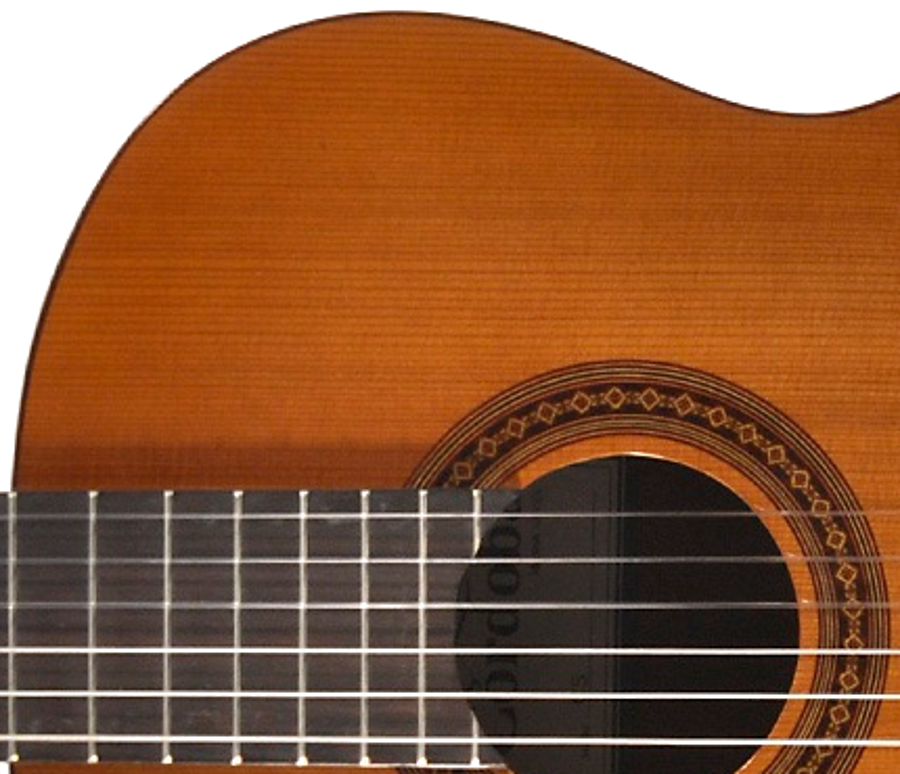
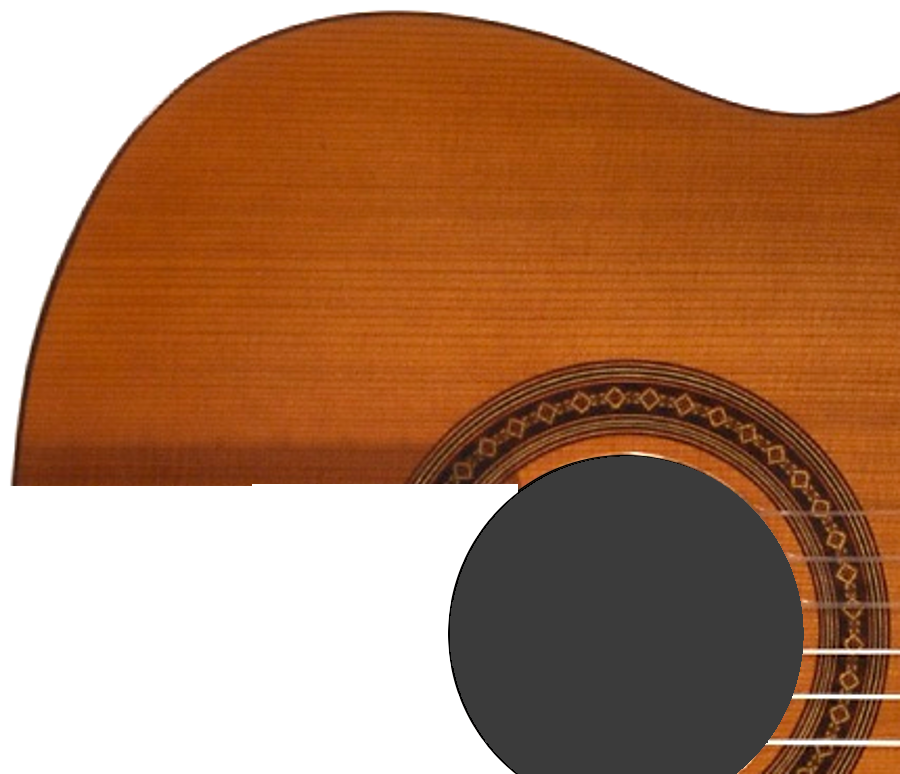
main bg

Changed region(s): [[0.0, 0.5891, 0.9022, 1.0]]

diff --git a/src/tfingerboard.cpp b/src/tfingerboard.cpp
@@ -292,15 +292,16 @@ void TfingerBoard::clearHighLight() {
 
 void TfingerBoard::paint() {
 //     m_fbRect = QRect(10, height()/8, (6*width())/7, height()-height()/4);
-    m_fbRect = QRect(10, 5, (6*width())/7, height() - 4);
-    m_fretWidth = ((m_fbRect.width() + ((gl->GfretsNumber / 2)*(gl->GfretsNumber / 2 +1))
-                  + gl->GfretsNumber / 4) / (gl->GfretsNumber+1)) +1;
-    m_strGap = (height()-2*m_fbRect.y()) / 6;
+    m_fbRect = QRect(10, height() / 18, (6 * width()) / 7, height() - height() / 18);
+    m_fretWidth = ((m_fbRect.width() + ((gl->GfretsNumber / 2)*(gl->GfretsNumber / 2 + 1))
+                  + gl->GfretsNumber / 4) / (gl->GfretsNumber+1)) + 1;
+//     m_strGap = (height() - 2 * m_fbRect.y()) / 6;
+    m_strGap = m_fbRect.height() / 6;
     m_fretsPos[0] = m_fbRect.x() + m_fretWidth;
-    for (int i=2; i<gl->GfretsNumber+1; i++)
-        m_fretsPos[i-1] = m_fretsPos[i-2]+(m_fretWidth-(i/2));
-    lastFret = m_fretsPos[gl->GfretsNumber-1];
-    if (lastFret > (m_fbRect.width()+10))
+    for (int i = 2; i < gl->GfretsNumber + 1; i++)
+        m_fretsPos[i - 1] = m_fretsPos[i - 2] + (m_fretWidth-(i / 2));
+    lastFret = m_fretsPos[gl->GfretsNumber - 1];
+    if (lastFret > (m_fbRect.width() + 10))
         m_fbRect.setWidth(lastFret - 8);
   // Let's paint
     QPixmap pixmap(size());
@@ -309,7 +310,7 @@ void TfingerBoard::paint() {
     QPainter painter(&pixmap);
     painter.setRenderHint(QPainter::Antialiasing, true);
     painter.setRenderHint(QPainter::TextAntialiasing, true);
-    painter.setWindow(0,0,width(),height());
+    painter.setWindow(0 , 0, width(), height());
     resetTransform();
     if (!gl->GisRightHanded) {
         translate(width(), 0);
@@ -362,35 +363,35 @@ void TfingerBoard::paint() {
     strFont.setPixelSize((int)qRound(0.75*m_strGap));//setting font for digits
     painter.setFont(strFont);
     QColor strColor;
-    int strWidth; //width of the string depends on its number
+//     int strWidth; //width of the string depends on its number
     painter.setBrush(QBrush(Qt::NoBrush));
     for (int i=0; i<6; i++) {
         if (i < 2) {
             strColor = Qt::white;
             strColor.setAlpha(175);
-            strWidth = 1;
+//             strWidth = 1;
         } else
             if (i==2) {
                 strColor = Qt::white;
                 strColor.setAlpha(125);
-                strWidth = 2;
+//                 strWidth = 2;
             } else
                 if ( (i==3) || (i==4) ) {
                     strColor = QColor("#C29432"); //#C29432 gold color for bass strings
                     strColor.setAlpha(255);
-                    strWidth = 2;
+//                     strWidth = 2;
                 } else {
                     strColor = QColor("#C29432");
-                    strWidth = 3;
+//                     strWidth = 3;
                 }
 //     drawing main strings
-        painter.setPen(QPen(strColor,strWidth,Qt::SolidLine));
+        painter.setPen(QPen(strColor, m_strWidth[i], Qt::SolidLine));
         painter.drawLine(1, m_fbRect.y()+m_strGap/2+i*m_strGap,
                          width()-1-m_strGap, m_fbRect.y()+m_strGap/2+i*m_strGap);
-        m_workStrings[i]->setPen(QPen(gl->GfingerColor, strWidth+2, Qt::SolidLine));
+        m_workStrings[i]->setPen(QPen(gl->GfingerColor, m_strWidth[i] + 2, Qt::SolidLine));
         m_workStrings[i]->setLine(1, m_fbRect.y()+m_strGap/2+i*m_strGap, width()-1-m_strGap,
                                   m_fbRect.y()+m_strGap/2+i*m_strGap);
-        m_strings[i]->setPen(QPen(gl->GselectedColor, strWidth, Qt::SolidLine));
+        m_strings[i]->setPen(QPen(gl->GselectedColor, m_strWidth[i], Qt::SolidLine));
         m_strings[i]->setLine(m_workStrings[i]->line());
   // drawing digits of strings in circles
         painter.setPen(QPen(strColor, 1, Qt::SolidLine));
@@ -413,14 +414,14 @@ void TfingerBoard::paint() {
               painter.scale (-1, 1);
           }
   // shadow of the strings
-          painter.setPen(QPen(Qt::black,strWidth,Qt::SolidLine));
-          painter.drawLine(m_fbRect.x()+1, m_fbRect.y()+m_strGap/2+i*m_strGap+3+strWidth,
-                           m_fbRect.x()+m_fbRect.width()-1, m_fbRect.y()+m_strGap/2+i*m_strGap+3+strWidth);
-          painter.setPen(QPen(Qt::black,1,Qt::SolidLine)); //on the fingerboard
-          painter.drawLine(m_fbRect.x()-8, m_fbRect.y()+m_strGap/2+i*m_strGap-2,
-                           m_fbRect.x(), m_fbRect.y()+m_strGap/2+i*m_strGap-2);
-          painter.drawLine(m_fbRect.x()-8, m_fbRect.y()+m_strGap/2+i*m_strGap+strWidth-1,
-                           m_fbRect.x()-1, m_fbRect.y()+m_strGap/2+i*m_strGap+strWidth-1);
+          painter.setPen(QPen(Qt::black, m_strWidth[i], Qt::SolidLine));
+          painter.drawLine(m_fbRect.x() + 1, m_fbRect.y() + m_strGap / 2 + i * m_strGap+3 + m_strWidth[i],
+                           m_fbRect.x() + m_fbRect.width() - 1, m_fbRect.y() + m_strGap / 2 + i * m_strGap + 3 + m_strWidth[i]);
+          painter.setPen(QPen(Qt::black, 1, Qt::SolidLine)); //on the fingerboard
+          painter.drawLine(m_fbRect.x() - 8, m_fbRect.y() + m_strGap / 2 + i * m_strGap - 2,
+                           m_fbRect.x(), m_fbRect.y() + m_strGap / 2 + i * m_strGap - 2);
+          painter.drawLine(m_fbRect.x() - 8, m_fbRect.y() + m_strGap / 2 + i * m_strGap + m_strWidth[i] - 1,
+                           m_fbRect.x() - 1, m_fbRect.y() + m_strGap / 2 + i * m_strGap + m_strWidth[i] - 1);
 
     }
 //    m_workFinger->setRect(0,0, fretWidth/1.7, qRound(0.6*strGap));
@@ -453,7 +454,14 @@ Tnote TfingerBoard::posToNote(int str, int fret) {
 //################################################################################################
 
 void TfingerBoard::resizeEvent(QResizeEvent *){
-    m_scene->setSceneRect(0,0,width(),height());
+    m_scene->setSceneRect(0, 0, width(), height());
+    qreal wFactor = height() / 150.0;
+    m_strWidth[0] = 1 * wFactor;
+    m_strWidth[1] = 2 * wFactor;
+    m_strWidth[2] = 2 * wFactor;
+    m_strWidth[3] = 2 * wFactor;
+    m_strWidth[4] = 2 * wFactor;
+    m_strWidth[5] = 3 * wFactor;
     paint();
 }
 

diff --git a/src/mainwindow.cpp b/src/mainwindow.cpp
@@ -191,8 +191,6 @@ MainWindow::MainWindow(QWidget *parent)
     if (gl->A->OUTenabled && !sound->isPlayable())
         QMessageBox::warning(this, "", tr("Problems with sound output"));
     
-    m_guitarBg.load(gl->path + "picts/guitar.png");
-    
 //     QTimer::singleShot(100, this, SLOT(analyseSlot()));
     
 }
@@ -520,12 +518,24 @@ void MainWindow::resizeEvent(QResizeEvent * event) {
     noteName->resize(m_statFontSize);
 //     examResults->setFixedHeight(qRound(centralWidget()->height() * 0.12));
 //     noteName->setFixedSize (QSize(centralWidget()->width()- score->width() -2, qRound(centralWidget()->height() * 0.4)));
-    noteName->setGeometry(posX, qRound(centralWidget()->height() * 0.3),
+    noteName->setGeometry(posX, qRound(centralWidget()->height() * 0.35),
                           centralWidget()->width() - score->width() -2, qRound(centralWidget()->height() * 0.4));
     noteName->resize(m_statFontSize);
     pitchView->resize(m_statFontSize);
     nootLab->setGeometry(posX, qRound(centralWidget()->height() * 0.12), centralWidget()->width()- score->width() -2,
           qRound(centralWidget()->height() * 0.25));
+    
+    guitar->show();
+    QPixmap bgPix(gl->path + "picts/guitar.png");
+    int guitH = qRound(((double)guitar->height() / 300.0) * 774.0);
+//     int posX12fr = qMax(guitar->posX12fret(), qRound(centralWidget()->width() / 2.2));
+//     int guitW = centralWidget()->width() - (posX12fr);
+    int guitW = centralWidget()->width() / 2;
+//     m_bgPixmap = bgPix.scaledToHeight(guitH);
+    m_bgPixmap = bgPix.scaled(guitW, guitH, Qt::IgnoreAspectRatio);
+    qDebug() << m_bgPixmap.size() << centralWidget()->width() << guitar->geometry().x() << guitar->posX12fret();
+    repaint();
+    
 //     examResults->show();
     
 //     setUpdatesEnabled(true);
@@ -546,12 +556,9 @@ void MainWindow::closeEvent(QCloseEvent *event) {
 
 void MainWindow::paintEvent(QPaintEvent* ) {
     QPainter painter(this);
-    int guitH = qRound(((double)guitar->height() / 234.0) * (double)m_guitarBg.height());
-//     qDebug() << guitarSize;
-    QPixmap guitarPix = m_guitarBg.scaledToHeight(guitH);
-    painter.drawPixmap(centralWidget()->width() * 0.65,
-                             centralWidget()->height() - guitarPix.height(), 
-                             guitarPix);
+    painter.drawPixmap(guitar->posX12fret(),
+                             guitar->geometry().bottom() - m_bgPixmap.height(), 
+                             m_bgPixmap);
 }
 
 

diff --git a/src/tfingerboard.h b/src/tfingerboard.h
@@ -53,6 +53,10 @@ public:
         /** Highlights given string */
     void setHighlitedString(char realStrNr);
     void clearHighLight();
+        /** Returns x coordinate of 12th fret where guitar body starts. */
+    int posX12fret() { return m_fretsPos[11]; }
+        /** Returns width of a string. */
+    qreal stringWidth(int strNr) { return m_strWidth[qBound(1, strNr + 1, 6)]; }
 
 
 signals:
@@ -83,6 +87,8 @@ private:
     TfingerPos m_fingerPos;
         /** @param fretsPos  stores X positions of frets in global widget coordinates */
     short m_fretsPos[24];
+        /** Array of width each string. Width depends on fretboard height. */
+    qreal m_strWidth[6];
 
     QGraphicsScene *m_scene;
     QGraphicsEllipseItem *m_workFinger, *m_fingers[6], *m_questFinger;

diff --git a/src/tnotename.cpp b/src/tnotename.cpp
@@ -345,7 +345,7 @@ void TnoteName::setEnabledEnharmNotes(bool isEnabled) {
 
 void TnoteName::resize(int fontSize) {
 //     nameLabel->setFixedSize(qRound(width()*0.88), qRound(height() * 0.3));
-    nameLabel->setFixedSize(parentWidget()->width() * 0.45, parentWidget()->height() / 10 );
+    nameLabel->setFixedSize(parentWidget()->width() * 0.5, parentWidget()->height() / 9 );
 //     nameLabel->setGeometry(geometry().left() + qRound(width()*0.06), geometry().top() + 2,
 //       qRound(width()*0.88), qRound(height() * 0.3)
 //     );

diff --git a/src/mainwindow.h b/src/mainwindow.h
@@ -106,7 +106,7 @@ private:
         * and stops any status messages in this time.*/
     bool m_lockStat;
     QColor m_prevBg, m_curBG;
-    QPixmap m_guitarBg;
+    QPixmap m_bgPixmap;
     int m_statFontSize;
     QCheckBox *m_hintsChB;
          /** Keeps true when Dialog windows is opened, to avoid opening another file. */
